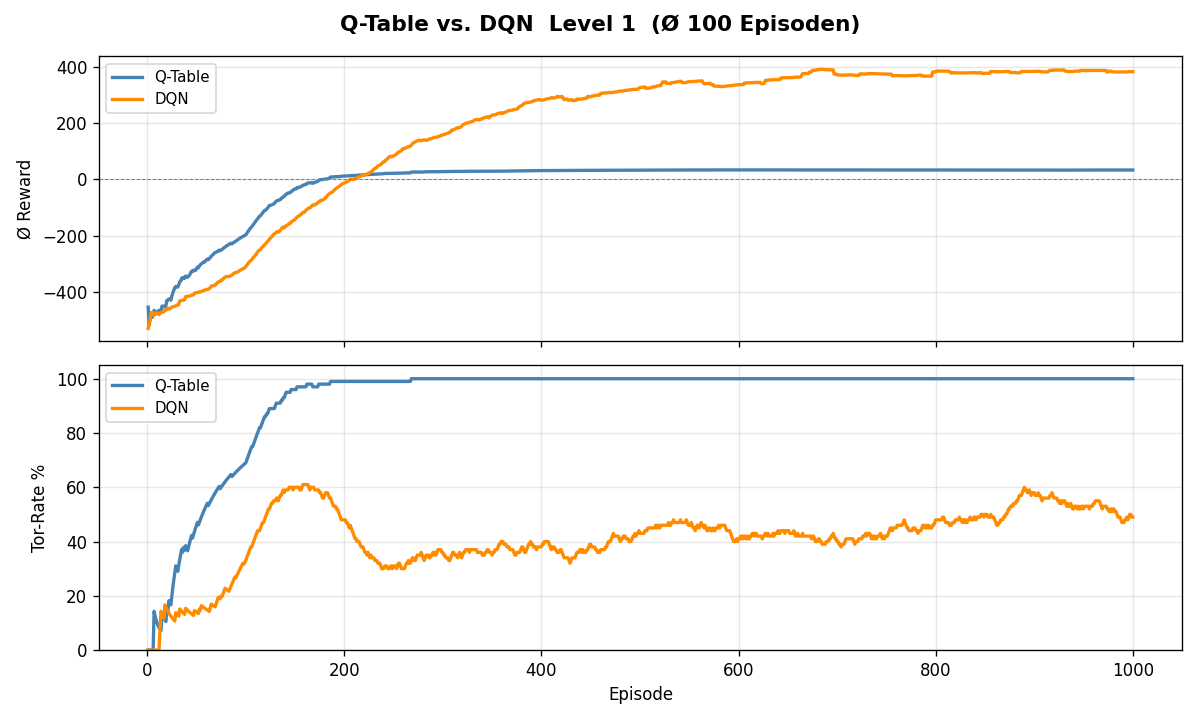
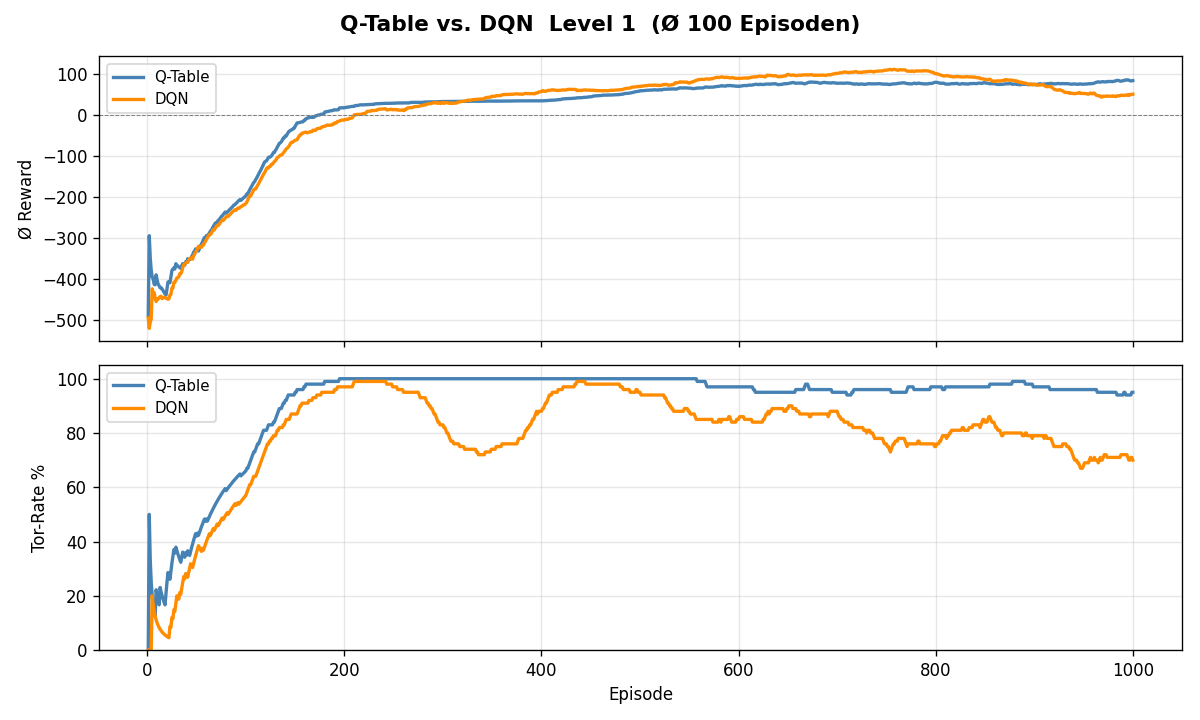
DQN L1 optimization: 2D shoot zone + reward shaping
- Shooting zone is now a 2D box around the goal (x>=8 AND |y-goal_y|<=1)
  instead of a full vertical strip, making it football-realistic
- Add REWARD_SHOOT_ZONE_MISS=-3 for shots in zone but wrong row,
  breaking the false 0-reward trap that kept DQN stuck at ~48%
- Add REWARD_GOAL_ROW_ALIGN=+1 when agent carries ball on goal row,
  giving the network a gradient toward correct row before the zone
- Update tests and docs to reflect new reward values and zone shape
- Retrain Level 1 (1000 ep): DQN now reaches ~99% at ep200 then drifts
  to ~72%, clearly demonstrating the Deadly Triad instability vs.
  Q-Table which stays stable at 96% after convergence

diff --git a/src/environment.py b/src/environment.py
@@ -73,6 +73,7 @@ class FootballEnv:
         ball_x = raw_ball_x if raw_ball_x is not None else self.width // 2
         self._ball_start = (ball_x, self.height // 2)
 
+        self.shoot_zone_y_radius = config.SHOOT_ZONE_Y_RADIUS  # for L1 2D zone
         self.n_actions = 5
 
         self.obstacle_cells = frozenset(
@@ -108,9 +109,11 @@ class FootballEnv:
             -1   every step
             +5   ball picked up
             +1   moved closer to goal (shaping)
-            +30  goal scored via shoot from zone
+            +1   agent has ball and is on goal row (alignment shaping)
+            +30  goal scored via shoot from zone (aligned with goal row)
+            -3   shoot in zone but wrong row
             -5   shoot without ball
-            -5   shoot from outside shooting zone
+            -5   shoot outside shooting zone
 
         Level 2 reward structure:
             -1   every step
@@ -166,6 +169,10 @@ class FootballEnv:
             if self._dist_to_goal() < prev_dist:
                 reward += config.REWARD_CLOSER  # +1
 
+            # Level 1: reward for carrying ball on the goal row
+            if self.level == 1 and self.has_ball and self.agent_pos[1] == self.goal_pos[1]:
+                reward += config.REWARD_GOAL_ROW_ALIGN  # +1
+
             # Level 2+: agent dribbles ball into goal cell → score
             if self.level >= 2 and self.has_ball and self.agent_pos == list(self.goal_pos):
                 if self.level >= 4:
@@ -211,9 +218,11 @@ class FootballEnv:
         grid = [["." for _ in range(self.width)] for _ in range(self.height)]
 
         if self.level == 1:
+            _, gy = self.goal_pos
             for y in range(self.height):
-                for x in range(self.shoot_zone_x, self.width - 1):
-                    grid[y][x] = ","
+                if abs(y - gy) <= self.shoot_zone_y_radius:
+                    for x in range(self.shoot_zone_x, self.width - 1):
+                        grid[y][x] = ","
 
         if self.level >= 4:
             for (ox, oy) in sorted(self.obstacle_cells):
@@ -258,19 +267,21 @@ class FootballEnv:
 
     def _shoot_l1(self):
         """
-        Level 1 shoot: zone-based goal attempt.
-            No ball       → -5
-            Outside zone  → -5, ball dropped
-            In zone, aligned with goal row  → +30, episode ends
-            In zone, wrong row              → miss, ball to right wall, no penalty
+        Level 1 shoot: 2D zone-based goal attempt.
+            Zone: agent_x >= SHOOT_ZONE_X  AND  |agent_y - goal_y| <= SHOOT_ZONE_Y_RADIUS
+            No ball              → -5
+            Outside zone         → -5, ball dropped
+            In zone, goal row    → +30, episode ends
+            In zone, wrong row   → -3, ball to right wall
         """
         if not self.has_ball:
             return config.REWARD_SHOOT_NO_BALL  # -5
 
         ax, ay = self.agent_pos
         _, gy = self.goal_pos
+        in_zone = ax >= self.shoot_zone_x and abs(ay - gy) <= self.shoot_zone_y_radius
 
-        if ax < self.shoot_zone_x:
+        if not in_zone:
             self.has_ball = False
             return config.REWARD_SHOOT_BAD_POS  # -5
 
@@ -281,10 +292,10 @@ class FootballEnv:
             self.done = True
             return config.REWARD_GOAL  # +30
         else:
-            # Miss — ball rolls to right wall, same row
+            # In zone but wrong row — penalised miss
             self.ball_pos = [self.width - 1, ay]
             self.has_ball = False
-            return 0
+            return config.REWARD_SHOOT_ZONE_MISS  # -3
 
     def _shoot_forward_pass(self):
         """

diff --git a/config.py b/config.py
@@ -9,9 +9,11 @@ LEVEL = 1
 MAX_STEPS = 300
 N_EPISODES = 1000
 
-# Shooting zone: columns from which a shoot is considered a "good position"
-# (agent_x >= SHOOT_ZONE_X). For a 10-wide grid this means x=8 or x=9.
+# Level 1 shooting zone: 2D box around the goal.
+# Valid shoot position: agent_x >= SHOOT_ZONE_X  AND  |agent_y - goal_y| <= SHOOT_ZONE_Y_RADIUS
+# On a 10×6 grid with goal at (9,3): zone cells are (8,2),(8,3),(8,4),(9,2),(9,4)
 SHOOT_ZONE_X = GRID_WIDTH - 2  # = 8
+SHOOT_ZONE_Y_RADIUS = 1        # rows around goal row that count as shooting zone
 
 # Ball starting x-column per level (y is always height // 2)
 # Level 1: centre — agent must navigate to ball, then reach shooting zone
@@ -28,9 +30,11 @@ REWARD_BALL_PICKUP = 5     # picking up the ball
 REWARD_CLOSER = 1          # moved closer to goal (shaping, movement actions)
 
 # Rewards — Level 1
-REWARD_GOAL = 30           # goal scored via shoot from zone
-REWARD_SHOOT_NO_BALL = -5  # shoot without ball
-REWARD_SHOOT_BAD_POS = -5  # shoot from outside shooting zone
+REWARD_GOAL = 30             # goal scored via shoot from zone (aligned with goal row)
+REWARD_SHOOT_NO_BALL = -5    # shoot without ball
+REWARD_SHOOT_BAD_POS = -5    # shoot from outside shooting zone
+REWARD_SHOOT_ZONE_MISS = -3  # shoot in zone but wrong row (off by 1 row)
+REWARD_GOAL_ROW_ALIGN = 1    # agent has ball and is on goal row (alignment shaping)
 
 # Rewards — Level 2
 SHOOT_RANGE = 3            # cells the ball travels on a forward pass

diff --git a/tests/test_environment.py b/tests/test_environment.py
@@ -80,13 +80,13 @@ def test_l1_ball_pickup_sets_has_ball():
 
 def test_l1_ball_pickup_reward():
     # Agent at (bx-1, by), ball at (5,3), goal at (9,3)
-    # step(-1) + pickup(+5) + closer(+1) = 5
+    # step(-1) + pickup(+5) + closer(+1) + align(+1, on goal row with ball) = 6
     env = FootballEnv(level=1)
     env.reset()
     bx, by = env.ball_pos  # (5,3)
     env.agent_pos = [bx - 1, by]
     _, reward, _ = env.step(3)
-    assert reward == 5
+    assert reward == 6
 
 
 def test_l1_ball_follows_agent_when_carried():
@@ -133,17 +133,17 @@ def test_l1_shoot_in_zone_aligned_scores():
 
 
 def test_l1_shoot_in_zone_wrong_row_is_miss():
-    # SHOOT_ZONE_X=8, row 0 ≠ goal row 3 → miss, ball to right wall
+    # Zone: x>=8 AND |y-3|<=1 → (8,2) is in zone but wrong row → penalised miss
     env = FootballEnv(level=1)
     env.reset()
-    env.agent_pos = [8, 0]
+    env.agent_pos = [8, 2]
     env.has_ball = True
-    env.ball_pos = [8, 0]
+    env.ball_pos = [8, 2]
     _, reward, done = env.step(4)
     assert not done
-    assert reward == -1   # only step penalty
+    assert reward == -4   # -1 (step) + -3 (zone miss)
     assert not env.has_ball
-    assert env.ball_pos == [env.width - 1, 0]
+    assert env.ball_pos == [env.width - 1, 2]
 
 
 def test_l1_walking_into_goal_does_not_score():

diff --git a/docs/dqn_vs_qtable_beobachtungen.md b/docs/dqn_vs_qtable_beobachtungen.md
@@ -68,7 +68,7 @@ Erst dadurch entsteht die echte Entscheidung: langsam dribbeln oder schnell pass
 
 ## Problem 1 — DQN Level 1: Konvergiert nie (~48% Goal-Rate)
 
-### Beobachtung
+### Beobachtung (vor Optimierung, Branch a_dev_1)
 - DQN Level 1 schwankt über alle 1000 Episoden zwischen 33–54%.
 - Loss bleibt ab Episode 300 konstant bei ~1.0–1.2 — kein Lernfortschritt.
 - Epsilon erreicht Minimum (0.05) bei Episode ~600 — keine Verbesserung danach.
@@ -81,6 +81,10 @@ Level 1 hat einen extrem spärlichen Reward: nur der exakte Zustand
 Das neuronale Netz versucht diese scharfe Bedingung als glatte Funktion zu approximieren —
 was strukturell nicht funktioniert. Q-Table dagegen speichert den exakten Zustand direkt.
 
+Ein weiterer Faktor: Zone-Miss (Schuss in x≥8 aber falsche Reihe) gab Reward=0.
+Da 0 > -1 (Step-Penalty), lernte das Netz: "In der Zone schießen ist immer besser als
+nicht schießen" — unabhängig von der Reihe. Das erzeugte eine Falle bei ~50% Goal-Rate.
+
 Das ist ein bekanntes Versagen der Kombination aus:
 - Function Approximation (NN)
 - Bootstrapping (TD-Learning)
@@ -92,10 +96,49 @@ Das ist ein bekanntes Versagen der Kombination aus:
 Zeigt klar: DQN ist auf kleinen, strukturierten Zustandsräumen mit spärlichem Reward
 SCHLECHTER als Q-Table, nicht nur langsamer.
 
-### Mögliche Fixes
-- Zone-Reward stärken: +3 für Aufenthalt in Schusszone mit Ball
-- Learning Rate reduzieren (1e-5 statt 1e-4) für stabileres Lernen
-- Double DQN einsetzen (reduziert Overestimation Bias)
+---
+
+## Optimierung 1 — DQN Level 1: Reward Shaping + 2D Schusszone (18.06.2026)
+
+**Branch:** a_dev_4
+
+### Änderungen
+1. **2D Schusszone** (statt vertikaler Streifen):
+   - Alt: `agent_x >= 8` — ganzer rechter Streifen, inklusive Ecken weit vom Tor
+   - Neu: `agent_x >= 8 AND |agent_y - goal_y| <= 1` — nur Felder nahe dem Tor
+   - Realistische Schusszone: (8,2), (8,3), (8,4) und (9,2), (9,4)
+
+2. **Zone-Miss-Strafe** (`REWARD_SHOOT_ZONE_MISS = -3`):
+   - Schuss in Zone, aber falsche Reihe → `-3` statt `0`
+   - Bricht die falsche Lerndynamik: Schießen in der Zone ist nur bei y=3 sinnvoll
+
+3. **Reihen-Alignment-Shaping** (`REWARD_GOAL_ROW_ALIGN = +1`):
+   - Agent trägt Ball auf goal_y (Reihe 3) → zusätzlich `+1`
+   - Gibt dem Netz einen Gradienten zur richtigen Schussreihe, bevor die Zone erreicht wird
+   - Feuert nur auf Bewegungsaktionen, nicht auf Schuss
+
+### Ergebnis nach Optimierung (1000 Episoden)
+
+| Agent | Goal-Rate (letzten 100 Ep.) | Verhalten |
+|---|---|---|
+| Q-Table | **96%** (stabil ab ep~200) | Lernt schnell, bleibt stabil |
+| DQN | **~72–84%** (instabil) | Erreicht ~99% bei ep~200, fällt dann zurück |
+
+### Neue Beobachtung: Deadly Triad jetzt sichtbar
+DQN **findet** die Lösung jetzt tatsächlich (ep~200: kurzzeitig ~99%) — das war vorher
+nie der Fall. Aber die Policy ist nicht stabil: das Netz fällt danach auf ~73% zurück,
+erholt sich leicht, und pendelt am Ende um ~72%.
+
+Das ist die Deadly Triad in Reinform:
+- Network lernt eine gute Policy
+- Bootstrapping + Replay Buffer verursachen Drift, sobald sich die Datenverteilung ändert
+- Q-Table ist nach Konvergenz vollständig stabil — exakte Werte werden nicht überschrieben
+
+### Akademische Bedeutung (aktualisiert)
+Vorher war DQN L1 „kaputt" (lernte nie). Nach dem Reward Shaping ist das Verhalten
+**didaktisch wertvoller**: Man sieht klar den Unterschied zwischen
+tabular (einmal konvergiert → stabil) und neural (konvergiert → driftet).
+Der Plot zeigt zwei qualitativ verschiedene Konvergenzverläufe.
 
 ---
 
@@ -198,7 +241,7 @@ oder zusätzlicher Komplexität (zufällige Ball-Starts, mehrere Gegner) ausspie
 
 ## Offene Optimierungsaufgaben
 
-- [ ] DQN Level 1: Sparse Reward Problem lösen (Zone-Reward oder Architektur)
+- [x] DQN Level 1: Reward Shaping + 2D Schusszone implementiert (18.06.2026)
 - [ ] DQN Level 4: Langsameren Epsilon-Decay + mehr Episoden testen
 - [ ] DQN Level 4: Curriculum Learning (L3 → L4) evaluieren
 - [ ] Separate Hyperparameter-Sets pro Level (aktuell: alle Level gleiche Config)